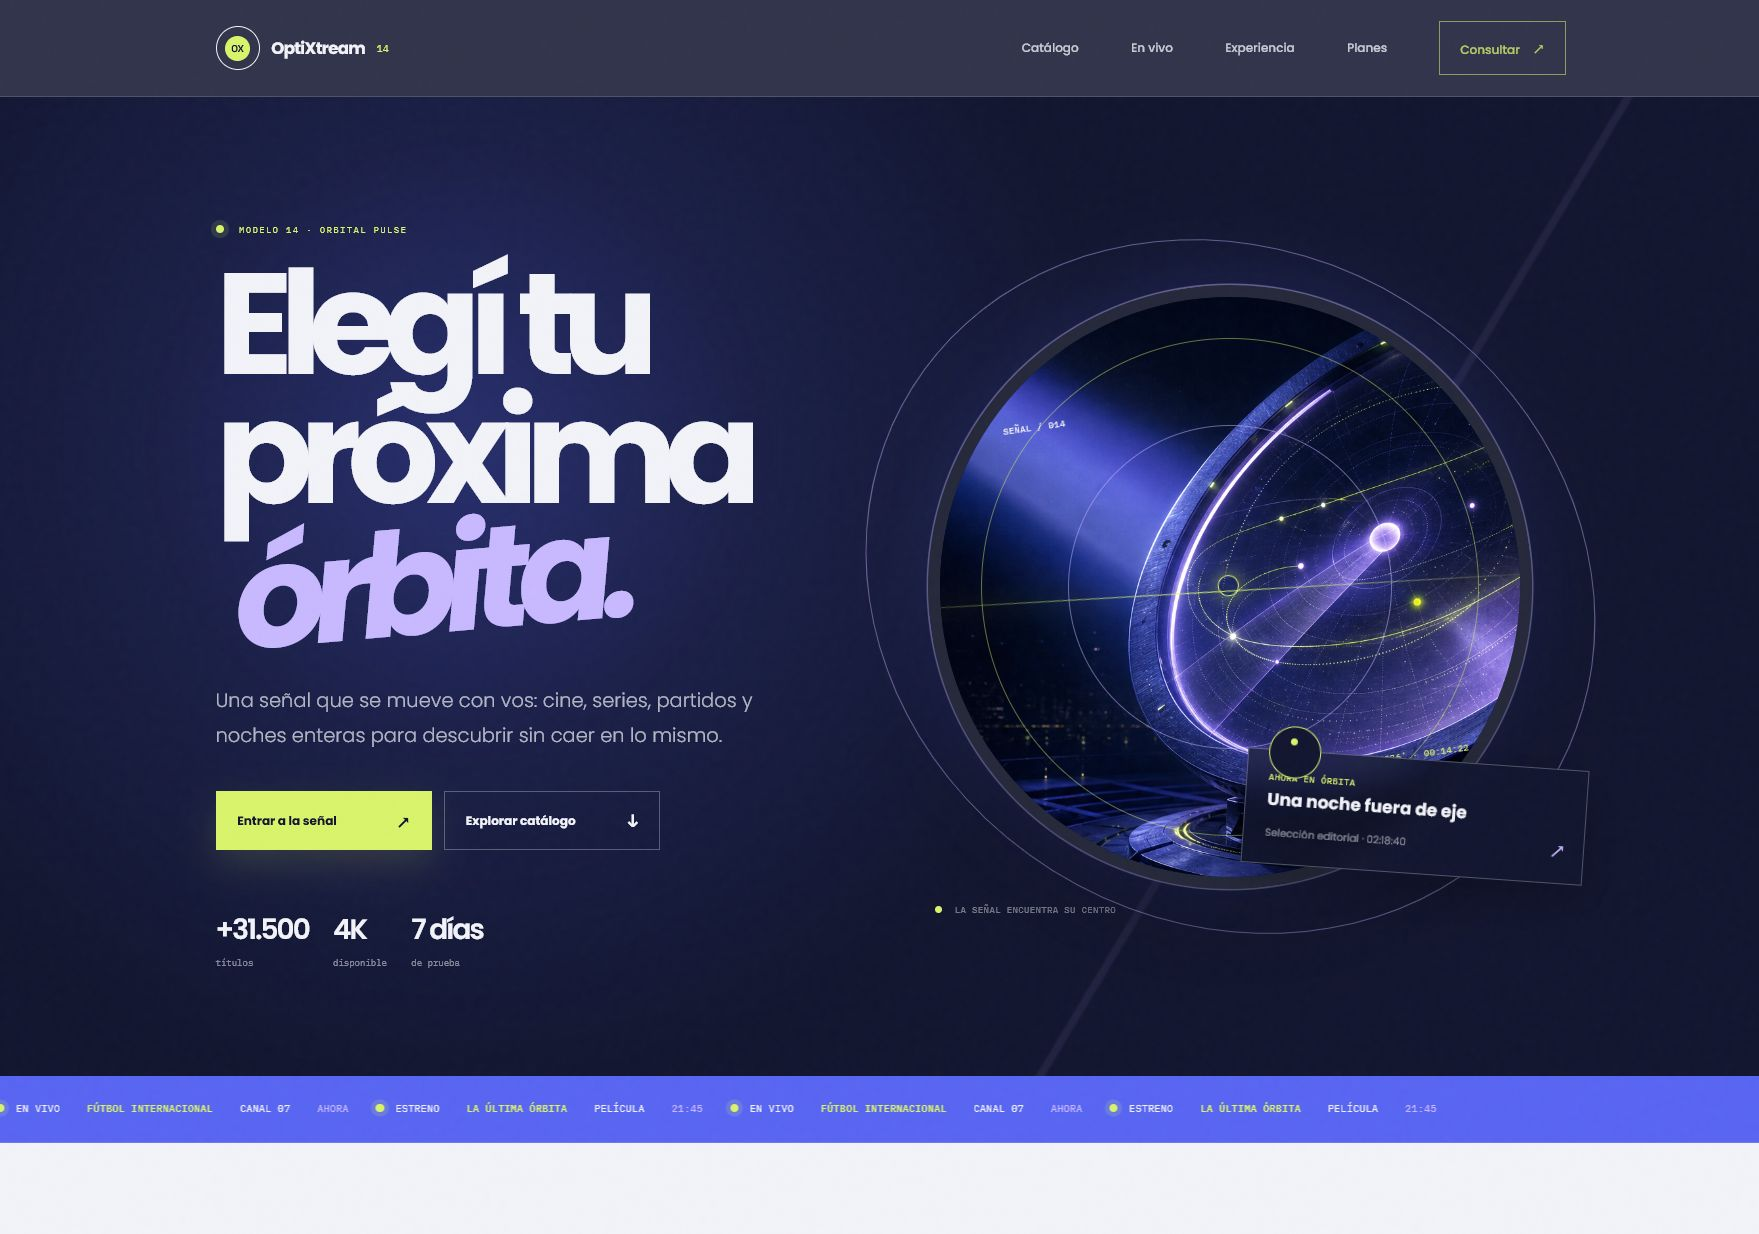
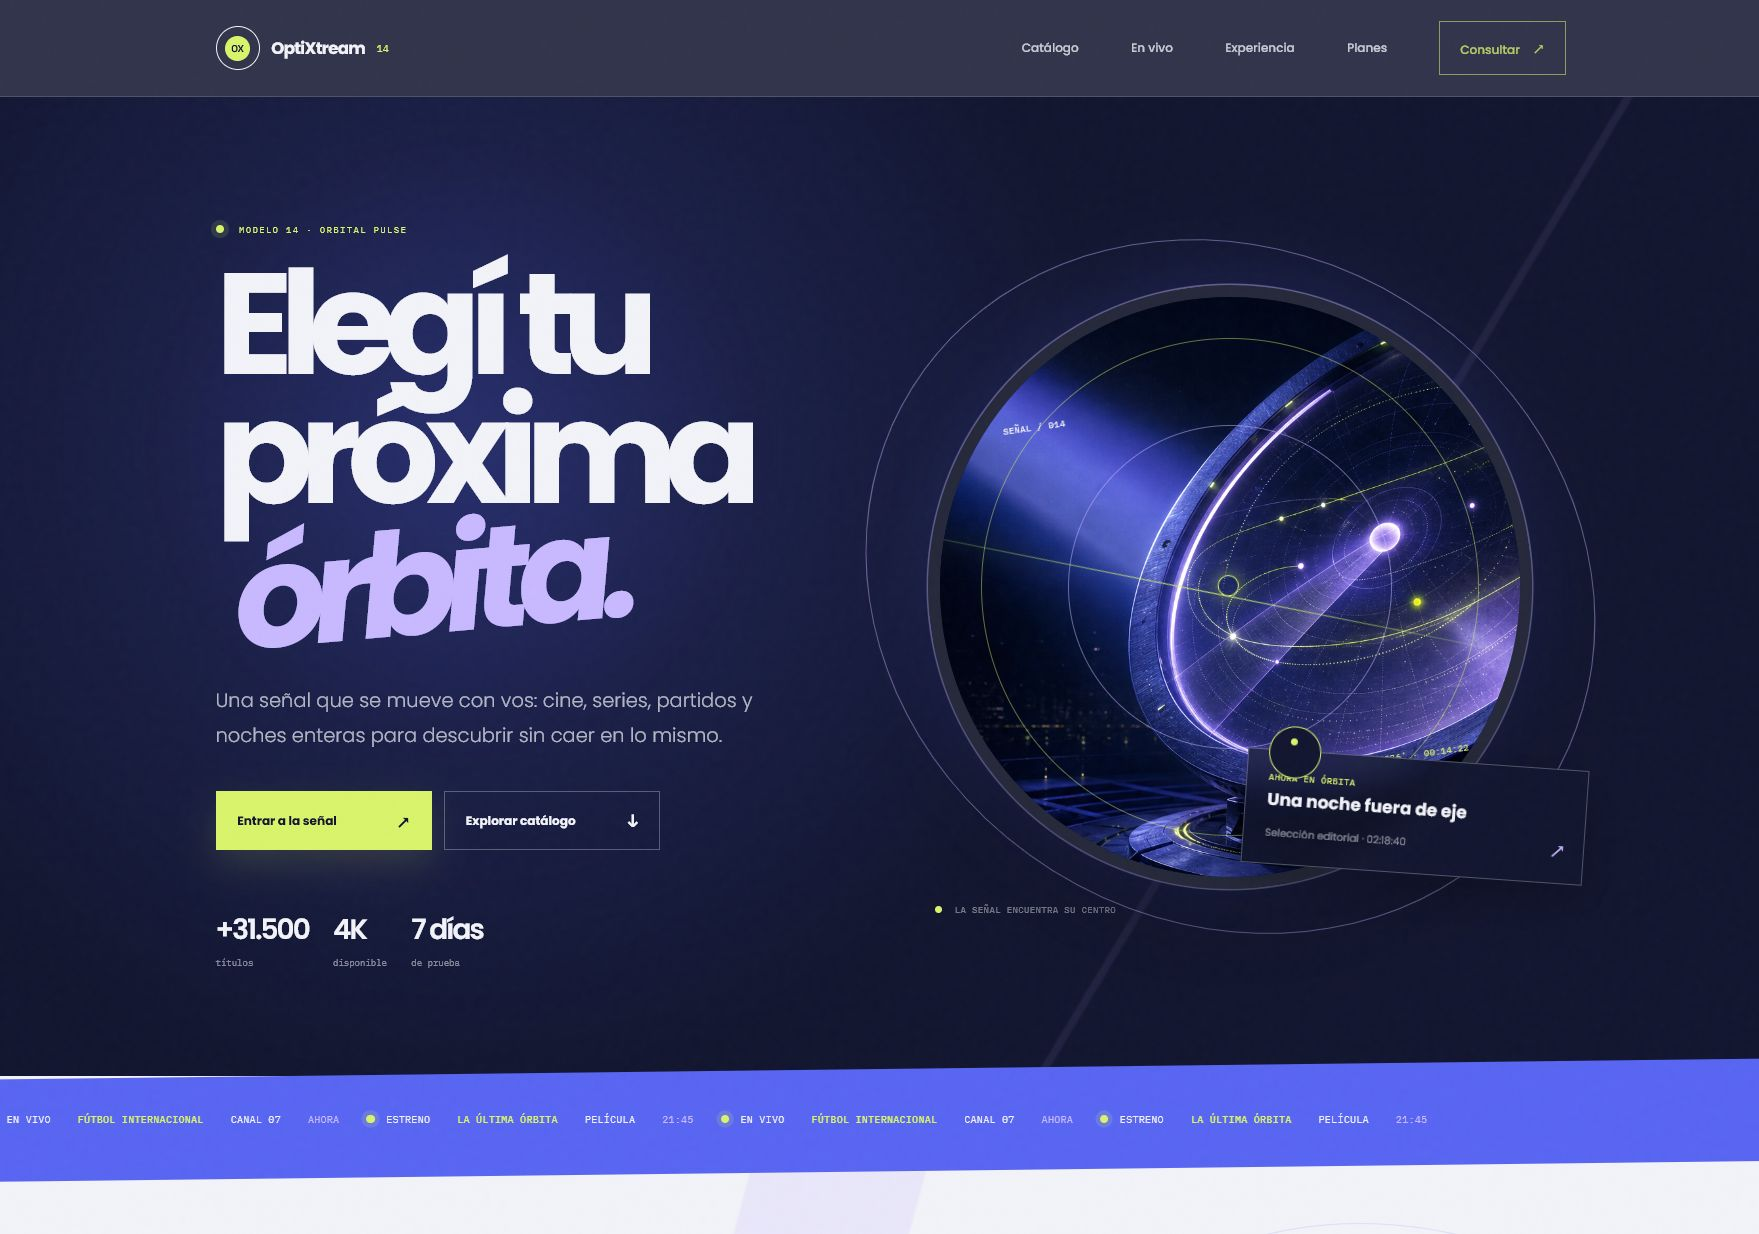
fix: add dynamic section rhythm to modelo 14

Changed region(s): [[0.0, 0.8314, 1.0, 0.9854], [0.614, 0.4619, 0.7368, 0.4927]]

diff --git a/modelo-14/styles.css b/modelo-14/styles.css
@@ -325,7 +325,9 @@ img { max-width: 100%; }
   .orbit-note { min-height: 13rem; }
   .channel-picker { overflow-x: auto; flex-wrap: nowrap; padding-bottom: .15rem; }
   .channel-chip { flex: 0 0 auto; }
-  .live-grid { width: calc(100% + 1rem); grid-template-columns: 79vw 79vw 79vw; gap: .65rem; overflow-x: auto; padding-right: 1rem; scroll-snap-type: x mandatory; }
+.live-grid { width: calc(100% + 1rem); grid-template-columns: 79vw 79vw 79vw; gap: .65rem; overflow-x: auto; padding-right: 1rem; scroll-snap-type: x mandatory; }
+.live-grid { scrollbar-width: none; }
+.live-grid::-webkit-scrollbar { display: none; }
   .live-feature, .live-tile { min-height: 20rem; grid-column: auto; grid-row: auto; scroll-snap-align: start; }
   .live-feature { border-radius: 2.6rem 0 2.6rem 0; }
   .live-tile { border-radius: 0 2.6rem 0 2.6rem; }
@@ -356,4 +358,62 @@ img { max-width: 100%; }
   .marquee-track, .radar-scan { animation: none; }
   .button, .feature-image img, .live-feature img { transition: none; }
   .motion-ready [data-reveal] { opacity: 1; transform: none; filter: none; transition: none; }
+}
+
+/* Structural rhythm: the sections themselves move, not only their cards. */
+main { overflow: clip; }
+.signal-marquee { position: relative; z-index: 4; margin-block: -.95rem; padding-block: 1.55rem; clip-path: polygon(0 17%, 100% 0, 100% 83%, 0 100%); }
+.constellation { position: relative; isolation: isolate; overflow: clip; }
+.constellation::before { position: absolute; z-index: -1; top: 4rem; right: -9rem; width: 34rem; height: 34rem; border: 1px solid rgba(88, 101, 242, .14); border-radius: 50%; content: ''; transform: rotate(24deg) scaleX(1.25); }
+.constellation::after { position: absolute; z-index: -1; top: 0; left: -15%; width: 125%; height: 14rem; background: linear-gradient(105deg, transparent 0 42%, rgba(200, 184, 255, .22) 42.2% 52%, transparent 52.2%); content: ''; pointer-events: none; }
+.constellation-grid { align-items: start; }
+.constellation-side { margin-top: 3rem; }
+.orbit-note { margin-inline: -2rem 2rem; }
+.live-section { position: relative; isolation: isolate; margin-top: -1.8rem; overflow: clip; }
+.live-section::before { position: absolute; z-index: 0; top: -3.5rem; right: -2%; left: -2%; height: 8rem; background: var(--fog); clip-path: polygon(0 0, 100% 22%, 100% 51%, 0 100%); content: ''; }
+.live-section::after { position: absolute; z-index: 0; right: -12rem; bottom: -15rem; width: 35rem; height: 35rem; border: 1px solid rgba(217, 243, 107, .25); border-radius: 50%; content: ''; transform: rotate(-24deg) scaleX(1.25); pointer-events: none; }
+.live-shell { position: relative; z-index: 1; }
+.experience { position: relative; isolation: isolate; overflow: clip; }
+.experience::before { position: absolute; z-index: -1; top: 8rem; left: -19rem; width: 39rem; height: 39rem; border: 1px solid rgba(200, 184, 255, .36); border-radius: 50%; content: ''; transform: rotate(17deg) scaleX(1.2); }
+.experience::after { position: absolute; z-index: -1; top: 0; right: -18%; width: 72%; height: 100%; background: linear-gradient(126deg, transparent 0 46%, rgba(88, 101, 242, .055) 46.2% 56%, transparent 56.2%); content: ''; pointer-events: none; }
+.benefit-grid { margin-bottom: 1.5rem; }
+.benefit-orbit:nth-child(2) { transform: translateY(1.6rem); }
+.benefit-orbit:nth-child(3) { transform: translateY(-.6rem); }
+.steps-section { position: relative; isolation: isolate; overflow: clip; }
+.steps-section::before { position: absolute; z-index: 0; top: -3.7rem; right: -2%; left: -2%; height: 8rem; background: var(--fog); clip-path: polygon(0 0, 100% 36%, 100% 62%, 0 100%); content: ''; }
+.steps-section::after { position: absolute; z-index: 0; right: -4%; bottom: -3.5rem; left: -4%; height: 7rem; background: var(--indigo); clip-path: polygon(0 30%, 100% 0, 100% 100%, 0 100%); content: ''; }
+.steps-section > .shell { position: relative; z-index: 1; }
+.steps-grid article:nth-child(2) { transform: translateY(1.35rem); }
+.plans { position: relative; isolation: isolate; overflow: clip; }
+.plans::before { position: absolute; z-index: -1; top: 0; right: -8%; left: -8%; height: 15rem; background: linear-gradient(115deg, rgba(88, 101, 242, .11), transparent 62%); clip-path: polygon(0 0, 100% 23%, 100% 54%, 0 100%); content: ''; }
+.plans > * { position: relative; z-index: 1; }
+.plan-card:nth-child(1) { transform: translateY(1.1rem); }
+.plan-card:nth-child(3) { transform: translateY(-.65rem); }
+.faq-section { position: relative; isolation: isolate; overflow: clip; }
+.faq-section::before { position: absolute; z-index: -1; top: 9rem; right: -19rem; width: 38rem; height: 38rem; border: 1px solid rgba(88, 101, 242, .12); border-radius: 50%; content: ''; transform: rotate(-18deg) scaleX(1.2); }
+
+@media (max-width: 820px) {
+  .signal-marquee { margin-block: -.5rem; padding-block: 1.1rem; clip-path: polygon(0 12%, 100% 0, 100% 88%, 0 100%); }
+  .constellation-side { margin-top: 1rem; }
+  .orbit-note { margin-inline: 0; }
+  .live-section { margin-top: -1rem; }
+  .live-section::before { top: -2.3rem; height: 5.5rem; }
+  .benefit-orbit:nth-child(2), .benefit-orbit:nth-child(3), .steps-grid article:nth-child(2), .plan-card:nth-child(1), .plan-card:nth-child(3) { transform: none; }
+  .benefit-grid { margin-bottom: 0; }
+  .steps-section::before { top: -2.2rem; height: 5.5rem; }
+  .steps-section::after { bottom: -2rem; height: 4.5rem; }
+  .plans::before { height: 10rem; }
+}
+
+@media (max-width: 620px) {
+  .signal-marquee { margin-block: -.35rem; padding-block: .85rem; }
+  .constellation::before { top: 11rem; right: -17rem; width: 28rem; height: 28rem; }
+  .constellation::after { height: 10rem; }
+  .live-section { margin-top: -.7rem; }
+  .live-section::before { top: -1.5rem; height: 4rem; }
+  .experience::before { top: 12rem; left: -18rem; width: 28rem; height: 28rem; }
+  .steps-section::before { top: -1.5rem; height: 4rem; }
+  .steps-section::after { bottom: -1.5rem; height: 3.5rem; }
+  .plans::before { height: 7rem; }
+  .faq-section::before { top: 13rem; right: -18rem; width: 28rem; height: 28rem; }
 }